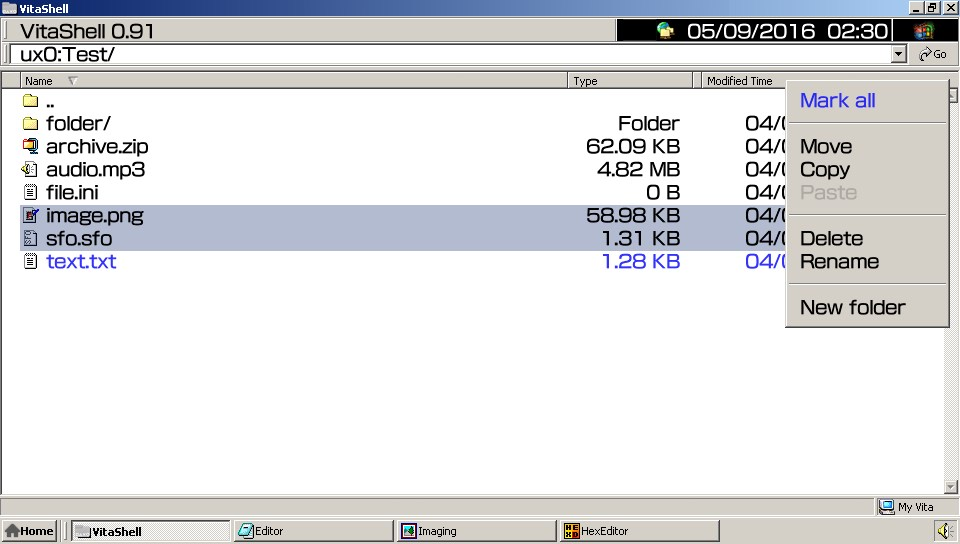
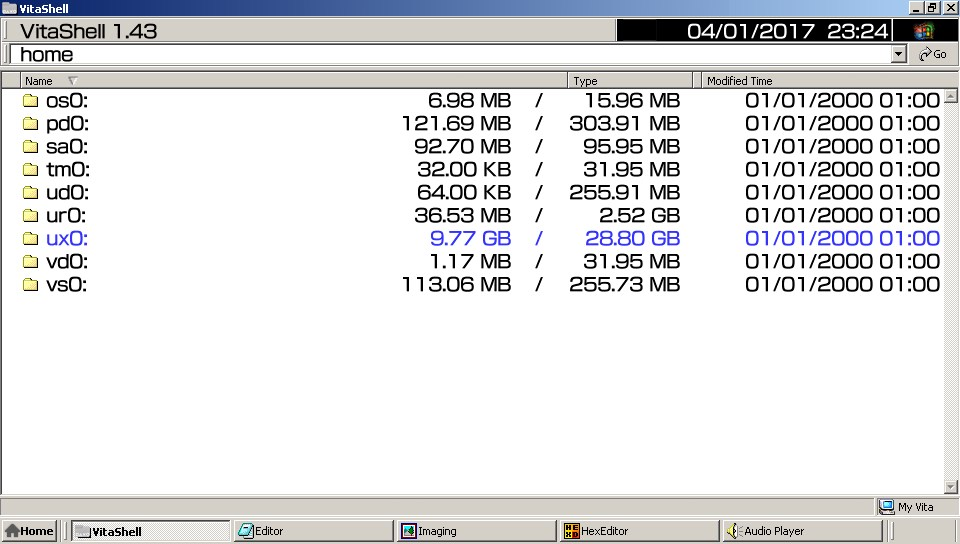
1.43 revisions why2k

diff --git a/themes/Why2k^Razneck/README.md b/themes/Why2k^Razneck/README.md
@@ -1,8 +1,15 @@
 # Why2k by Razneck
-# Now with "active" tasks!
-Check the theme folder for alternative Clippy context menu.
+With "active" tasks!
+
+VitaShell 1.43 Revisions - January 4, 2017
+	- audio player + "active" task
+	- settings menu
+	- context menus
+	- charge icon
 
 ![Preview1](https://github.com/xy2iii/vitashell-themes/blob/master/themes/Why2k%5ERazneck/Preview1.jpg)
 ![Preview2](https://github.com/xy2iii/vitashell-themes/blob/master/themes/Why2k%5ERazneck/Preview2.jpg)
 ![Preview3](https://github.com/xy2iii/vitashell-themes/blob/master/themes/Why2k%5ERazneck/Preview3.jpg)
 ![Preview4](https://github.com/xy2iii/vitashell-themes/blob/master/themes/Why2k%5ERazneck/Preview4.jpg)
+![Preview5](https://github.com/xy2iii/vitashell-themes/blob/master/themes/Why2k%5ERazneck/Preview5.jpg)
+![Preview6](https://github.com/xy2iii/vitashell-themes/blob/master/themes/Why2k%5ERazneck/Preview6.jpg)
